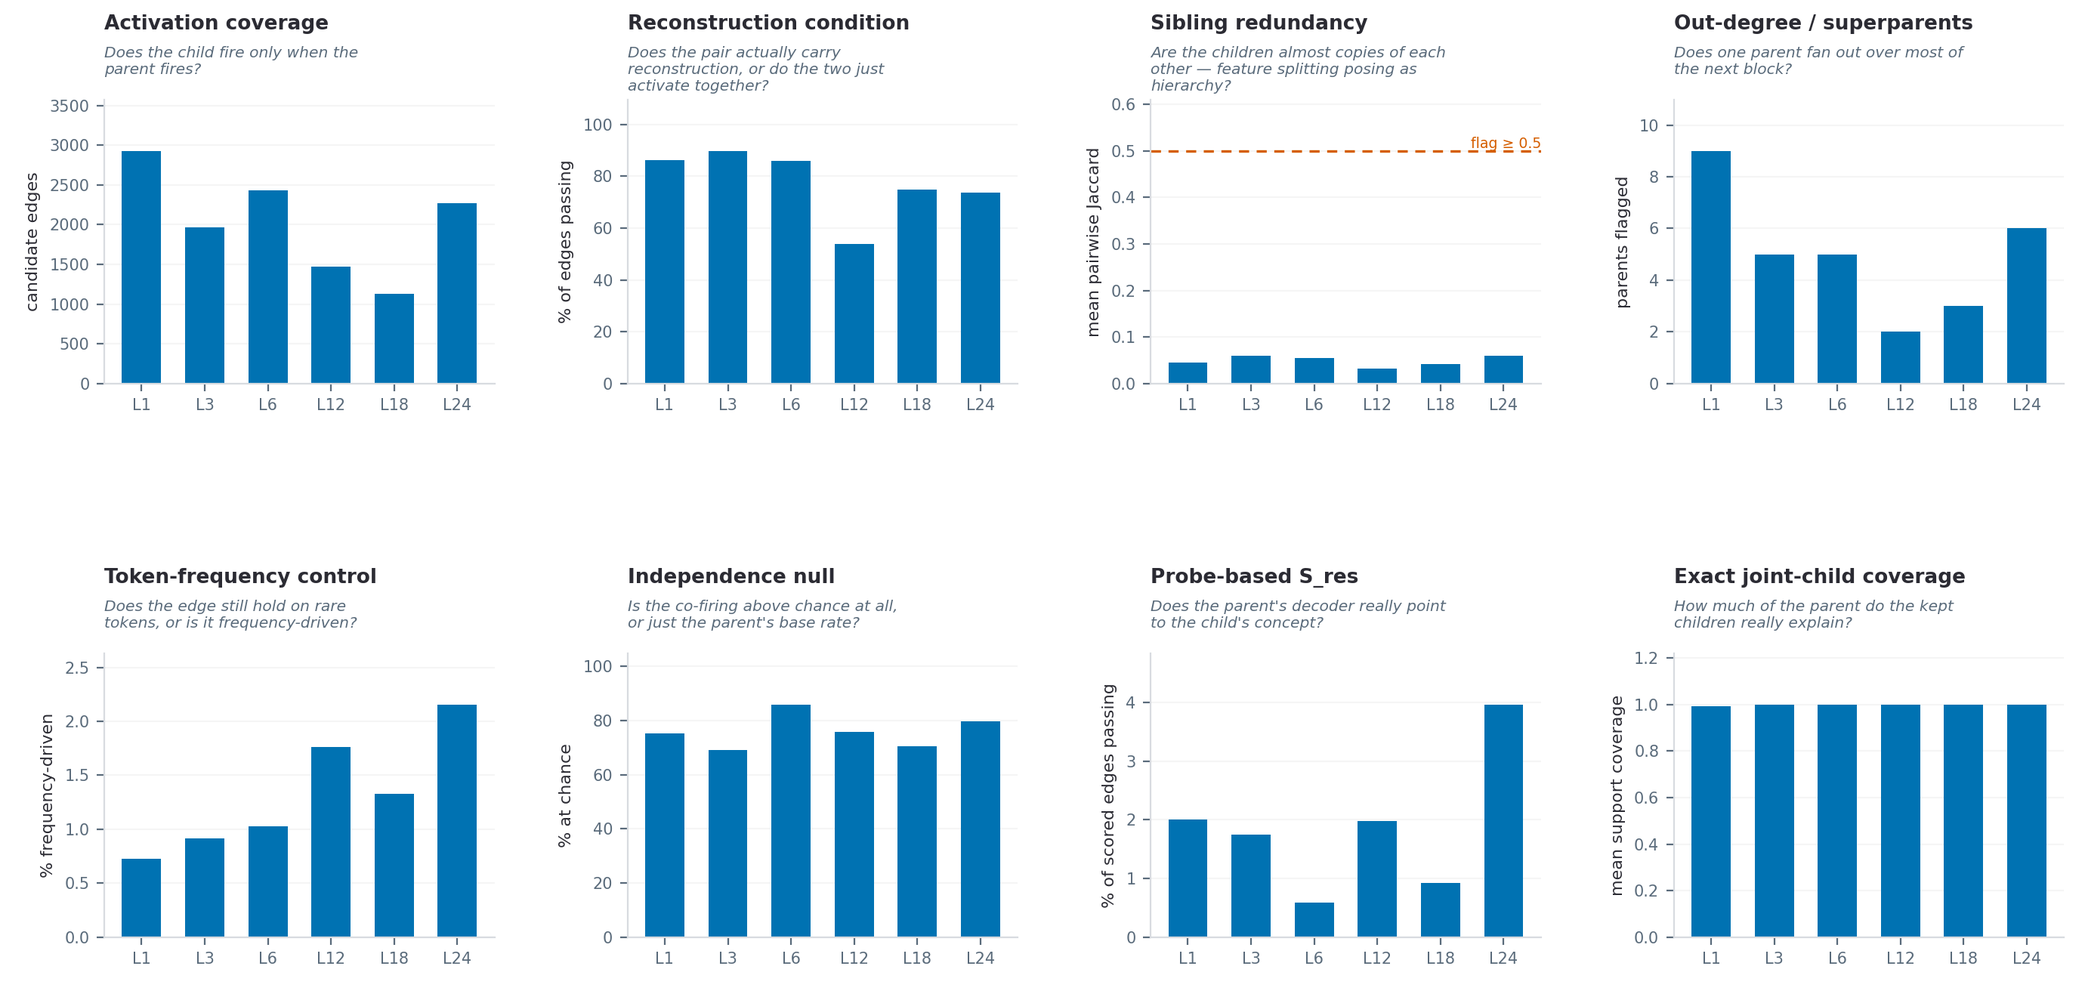
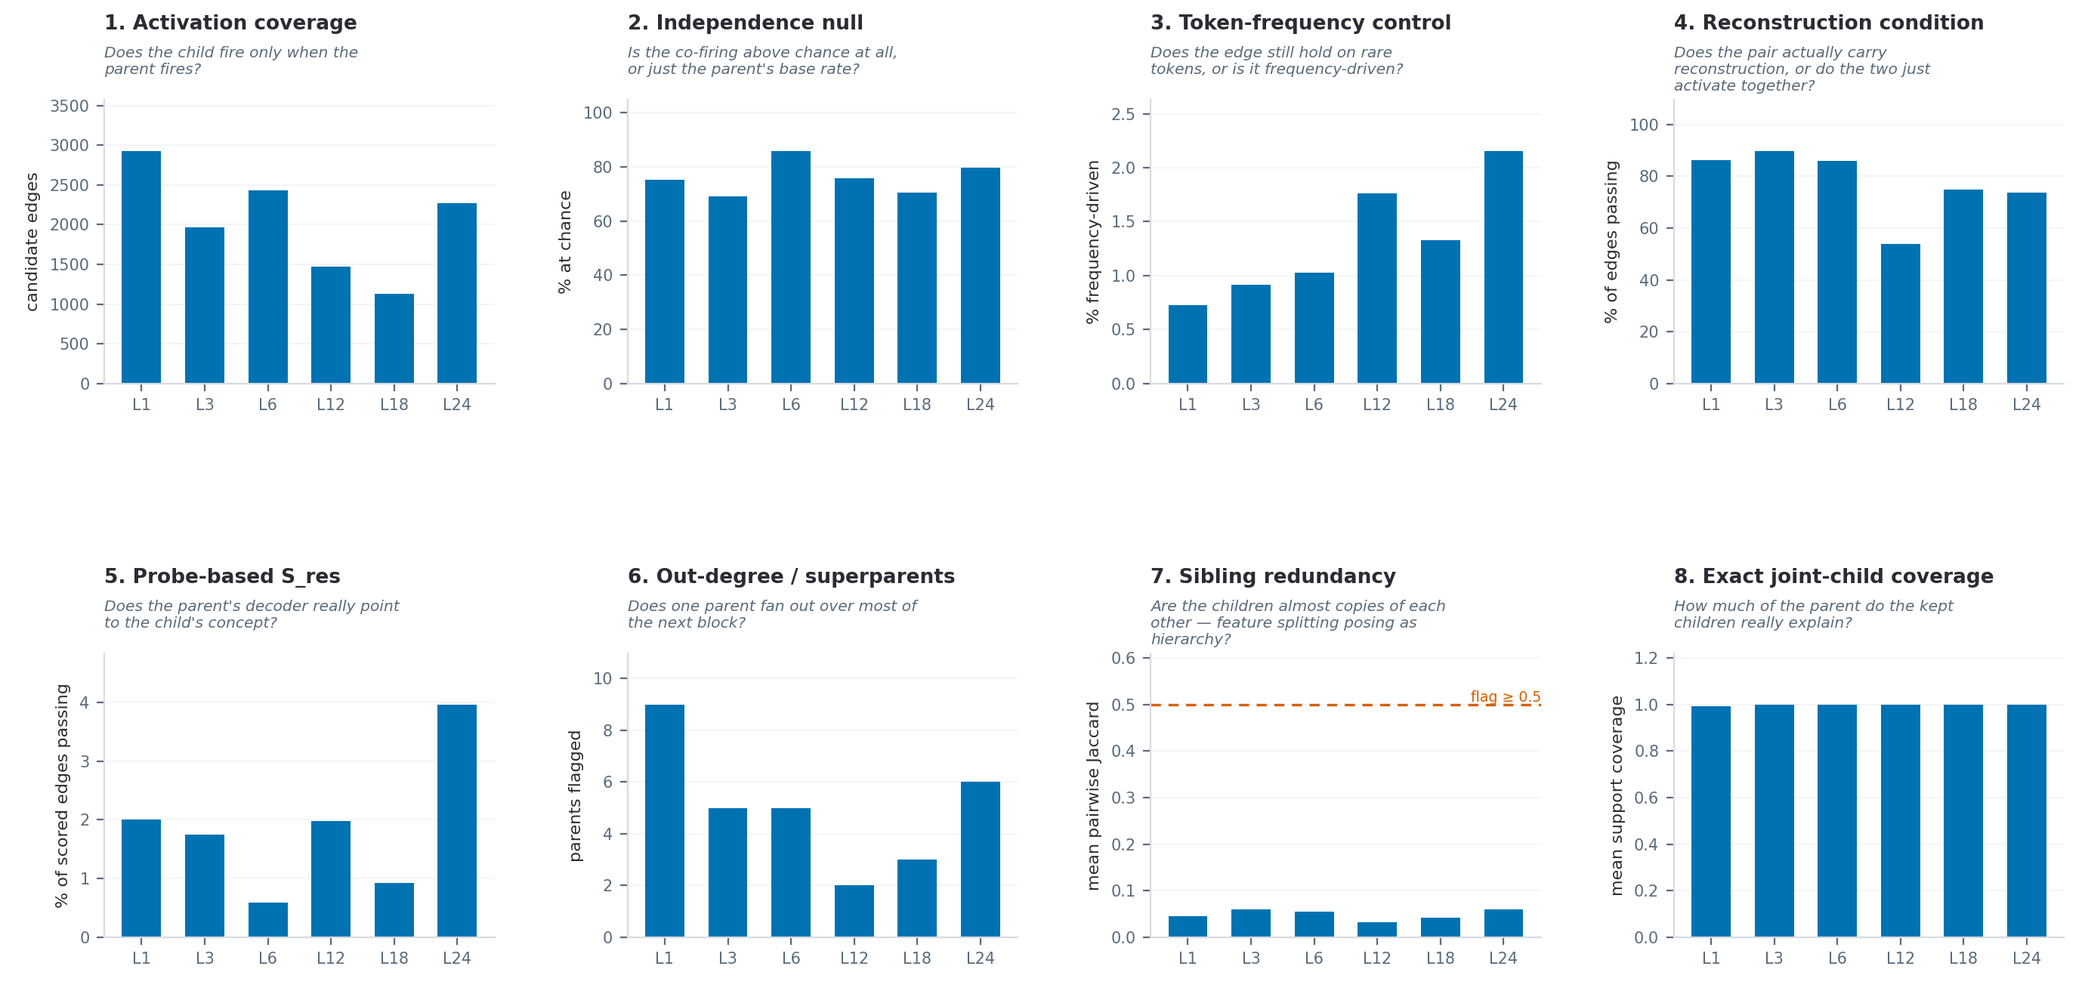
refactor(reporting): reorder and reindex metric battery for consistency
Synchronize the metric battery numbering and descriptions across LaTeX
tables, figure generation scripts, and visual assets.

Key changes:
- Reindex the metric battery from 10 to 8 primary questions to reflect
  the updated methodology.
- Update `tables.tex` with new numbering, descriptions, and a revised
  caption explaining the grouping of metrics (1-5 for single edges,
  6-8 for neighborhoods).
- Refactor `make_report_figures.py` to include metric indices in panel
  titles and stage labels, ensuring visual alignment with the paper's
  text.
- Update generated PNG assets (`battery_questions_gemma.png` and
  `funnel_coverage_to_sres.png`) to match the new numbering scheme.

diff --git a/reporting/make_report_tables.py b/reporting/make_report_tables.py
@@ -172,29 +172,33 @@ def t_battery():
          rf"$\geq {C.EDGE_TAU}$", r"\texttt{coverage}"),
         ("1b", "Forward coverage $F$", r"$P(\text{child} \mid \text{parent})$",
          "reported", r"\texttt{coverage}"),
-        ("1c", "Joint-child coverage", r"$R_\mathrm{supp}$, $R_\mathrm{mass}$, energy share",
-         "reported", r"\texttt{joint\_child}"),
-        ("2a", "Reconstruction ablation", "both features carry mass on the child's tokens",
-         rf"$\geq {C.RECON_REL_GAIN_MIN}$", r"\texttt{reconstruction}"),
-        ("2b", r"Probe $S_\mathrm{res}$", "both decoders near the child-concept probe",
-         rf"top-{C.SRES_RANK_TOP_K} rank", r"\texttt{sres}"),
-        ("3", "Sibling redundancy", "co-activation among one parent's children",
-         rf"$\geq {C.SIBLING_REDUNDANCY_FLAG}$", r"\texttt{sibling\_redundancy}"),
-        ("4", "Out-degree", "one parent covering most of the next block",
-         rf"$\geq {100 * C.SUPERPARENT_OUTDEG_FRAC:.0f}\%$", r"\texttt{outdegree}"),
-        ("5", "Token-frequency control", "does the edge survive on rare tokens",
-         rf"$\geq {C.FREQ_SURVIVAL_MIN}$", r"\texttt{token\_control}"),
-        ("6", "Independence null", "PMI against independent firing",
+        ("2", "Independence null", "PMI against independent firing",
          r"$> 0$", r"\texttt{independence\_null}"),
-        ("7", "In-block directed coverage", "containment within one block, and duplicates",
+        ("3", "Token-frequency control", "does the edge survive on rare tokens",
+         rf"$\geq {C.FREQ_SURVIVAL_MIN}$", r"\texttt{token\_control}"),
+        ("4", "Reconstruction ablation", "both features carry mass on the child's tokens",
+         rf"$\geq {C.RECON_REL_GAIN_MIN}$", r"\texttt{reconstruction}"),
+        ("5", r"Probe $S_\mathrm{res}$", "both decoders near the child-concept probe",
+         rf"top-{C.SRES_RANK_TOP_K} rank", r"\texttt{sres}"),
+        ("6", "Out-degree", "one parent covering most of the next block",
+         rf"$\geq {100 * C.SUPERPARENT_OUTDEG_FRAC:.0f}\%$", r"\texttt{outdegree}"),
+        ("7", "Sibling redundancy", "co-activation among one parent's children",
+         rf"$\geq {C.SIBLING_REDUNDANCY_FLAG}$", r"\texttt{sibling\_redundancy}"),
+        ("8", "Joint-child coverage", r"$R_\mathrm{supp}$, $R_\mathrm{mass}$, energy share",
+         "reported", r"\texttt{joint\_child}"),
+        ("---", "In-block directed coverage", "containment within one block, and duplicates",
          "asymmetry", r"\texttt{in\_block\_edges}"),
     ]
     return table(
-        "battery", r"\textbf{The metric battery.} Ten measurements of the same edge. Metric~1 "
-        "defines the candidate set and 2--7 grade it. Metric~2a is named honestly as a "
-        r"\emph{contribution filter} rather than as Tree SAE's $S_\mathrm{res}$: two strong but "
-        "unrelated co-firing features pass both of its legs, and its pass rate scales with block "
-        r"energy. The probe-based $S_\mathrm{res}$ is 2b, and its target is the self-label "
+        "battery", r"\textbf{The metric battery.} Eight questions about the same edge, plus an "
+        "unnumbered in-block measurement that grades same-level pairs rather than candidate "
+        "edges. Metric~1 defines the candidate set and 2--8 grade it: 2--5 weigh a single edge "
+        "with increasingly demanding evidence, from chance to frequency to reconstruction to "
+        "meaning, and 6--8 widen the view from one edge to the parent's whole neighbourhood. "
+        r"Metric~4 is named honestly as a \emph{contribution filter} rather than as Tree SAE's "
+        r"$S_\mathrm{res}$: two strong but unrelated co-firing features pass both of its legs, "
+        "and its pass rate scales with block energy. The probe-based $S_\\mathrm{res}$ is "
+        "metric~5, and its target is the self-label "
         r"$\mathbf{1}[f_c > 0]$, so a corrupted latent yields a probe that validates its own "
         "corruption; we report it as self-labeled and as a self-consistency check, not as ground "
         "truth.",
@@ -205,32 +209,45 @@ def t_battery():
 # ---------------------------------------------------------------------------
 # 3. The properties matrix. NOT derived -- see the module docstring.
 # ---------------------------------------------------------------------------
+# Column order matches the battery order of Section "Metrics"; the
+# Poly-parenting column is separate from Superparent on purpose. A superparent
+# is an out-degree pathology (one parent swallowing the block) and
+# poly-parenting an in-degree one (one child claimed by several parents); the
+# second is what the results section actually measures, and only `outdegree`
+# reads in-degree at all.
 MATRIX = [
-    ("1a Reverse coverage",        "P", "x", "x", "x", "x", "x", "x"),
-    ("1b Forward coverage",        "P", "x", "x", "P", "x", "x", "x"),
-    ("1c Joint-child",             "P", "x", "Y", "Y", "x", "x", "x"),
-    ("2a Reconstruction",          "P", "x", "x", "x", "x", "P", "x"),
-    (r"2b Probe $S_\mathrm{res}$", "Y", "P", "x", "P", "P", "Y", "x"),
-    ("3 Sibling redundancy",       "P", "x", "Y", "x", "Y", "x", "x"),
-    ("4 Out-degree",               "x", "x", "x", "Y", "x", "P", "x"),
-    ("5 Frequency control",        "P", "x", "x", "P", "x", "Y", "x"),
-    ("6 Independence null",        "P", "x", "x", "Y", "x", "Y", "x"),
-    ("7 In-block coverage",        "Y", "x", "Y", "x", "Y", "x", "x"),
+    ("1 Reverse coverage",        "P", "x", "x", "x", "x", "x", "x", "x"),
+    ("1 Forward coverage",        "P", "x", "x", "P", "x", "x", "x", "x"),
+    ("2 Independence null",       "P", "x", "x", "Y", "P", "x", "Y", "x"),
+    ("3 Frequency control",       "P", "x", "x", "P", "x", "x", "Y", "x"),
+    ("4 Reconstruction",          "P", "x", "x", "x", "x", "x", "P", "x"),
+    (r"5 Probe $S_\mathrm{res}$", "Y", "P", "x", "P", "P", "P", "Y", "x"),
+    ("6 Out-degree",              "x", "x", "x", "Y", "Y", "x", "P", "x"),
+    ("7 Sibling redundancy",      "P", "x", "Y", "x", "x", "Y", "x", "x"),
+    ("8 Joint-child",             "P", "x", "Y", "Y", "x", "x", "x", "x"),
+    ("--- In-block coverage",     "Y", "x", "Y", "x", "x", "Y", "x", "x"),
 ]
 GLYPH = {"Y": r"$\bullet$", "P": r"$\circ$", "x": r"--"}
 
 
 def t_matrix():
     cols = ["Parent$\\rightarrow$child", "Absorption", "Splitting", "Superparent",
-            "Siblings", "Frequency", "Topic"]
+            "Poly-parenting", "Siblings", "Frequency", "Topic"]
     rows = [[r[0]] + [GLYPH[c] for c in r[1:]] for r in MATRIX]
     return table(
         "matrix", r"\textbf{What each metric can separate.} A candidate pair can look like an "
-        "edge for seven reasons and only one is hierarchy, so the question per metric is which "
+        "edge for eight reasons and only one is hierarchy, so the question per metric is which "
         r"column it adds, not whether it is correct. $\bullet$ detects, $\circ$ partial "
         "(necessary but not sufficient, or only in some regimes), -- blind. \\textbf{These cells "
         "are read off each metric's construction and are not a measured accuracy}; every one is "
-        r"exercised by a row of Table~\ref{tab:tier1}. Two columns are open and stay open. "
+        r"exercised by a row of Table~\ref{tab:tier1}. \emph{Superparent} and "
+        r"\emph{poly-parenting} are separate columns because they are separate pathologies: the "
+        "first is an out-degree failure, one parent claiming most of the child block, and the "
+        "second an in-degree failure, one child claimed by several parents. Only the out-degree "
+        "metric reads in-degree at all; the two filters marked partial there earn it by removing "
+        "the edges that produce the tangle, the base-rate hubs and the geometrically unrelated "
+        "pairs, rather than by measuring a child's parent count. "
+        r"Two columns are open and stay open. "
         r"\emph{Absorption} is unreachable because coverage gates the candidate set and an "
         "absorbed child has low $R$ by construction. \\emph{Topic} --- two specific, unrelated "
         "features sharing a latent subject --- passes coverage, reconstruction, the frequency "

diff --git a/outputs/paper_figuers/tables.tex b/outputs/paper_figuers/tables.tex
@@ -58,7 +58,7 @@
 \begin{table}[tbp]
   \centering
   \small
-  \caption{\textbf{The metric battery.} Ten measurements of the same edge. Metric~1 defines the candidate set and 2--7 grade it. Metric~2a is named honestly as a \emph{contribution filter} rather than as Tree SAE's $S_\mathrm{res}$: two strong but unrelated co-firing features pass both of its legs, and its pass rate scales with block energy. The probe-based $S_\mathrm{res}$ is 2b, and its target is the self-label $\mathbf{1}[f_c > 0]$, so a corrupted latent yields a probe that validates its own corruption; we report it as self-labeled and as a self-consistency check, not as ground truth.}
+  \caption{\textbf{The metric battery.} Eight questions about the same edge, plus an unnumbered in-block measurement that grades same-level pairs rather than candidate edges. Metric~1 defines the candidate set and 2--8 grade it: 2--5 weigh a single edge with increasingly demanding evidence, from chance to frequency to reconstruction to meaning, and 6--8 widen the view from one edge to the parent's whole neighbourhood. Metric~4 is named honestly as a \emph{contribution filter} rather than as Tree SAE's $S_\mathrm{res}$: two strong but unrelated co-firing features pass both of its legs, and its pass rate scales with block energy. The probe-based $S_\mathrm{res}$ is metric~5, and its target is the self-label $\mathbf{1}[f_c > 0]$, so a corrupted latent yields a probe that validates its own corruption; we report it as self-labeled and as a self-consistency check, not as ground truth.}
   \label{tab:battery}
   \begin{tabular}{llllr}
     \toprule
@@ -66,14 +66,14 @@
     \midrule
     1a & Reverse coverage $R$ & $P(\text{parent} \mid \text{child})$ & $\geq 0.5$ & \texttt{coverage} \\
     1b & Forward coverage $F$ & $P(\text{child} \mid \text{parent})$ & reported & \texttt{coverage} \\
-    1c & Joint-child coverage & $R_\mathrm{supp}$, $R_\mathrm{mass}$, energy share & reported & \texttt{joint\_child} \\
-    2a & Reconstruction ablation & both features carry mass on the child's tokens & $\geq 0.01$ & \texttt{reconstruction} \\
-    2b & Probe $S_\mathrm{res}$ & both decoders near the child-concept probe & top-5 rank & \texttt{sres} \\
-    3 & Sibling redundancy & co-activation among one parent's children & $\geq 0.5$ & \texttt{sibling\_redundancy} \\
-    4 & Out-degree & one parent covering most of the next block & $\geq 30\%$ & \texttt{outdegree} \\
-    5 & Token-frequency control & does the edge survive on rare tokens & $\geq 0.5$ & \texttt{token\_control} \\
-    6 & Independence null & PMI against independent firing & $> 0$ & \texttt{independence\_null} \\
-    7 & In-block directed coverage & containment within one block, and duplicates & asymmetry & \texttt{in\_block\_edges} \\
+    2 & Independence null & PMI against independent firing & $> 0$ & \texttt{independence\_null} \\
+    3 & Token-frequency control & does the edge survive on rare tokens & $\geq 0.5$ & \texttt{token\_control} \\
+    4 & Reconstruction ablation & both features carry mass on the child's tokens & $\geq 0.01$ & \texttt{reconstruction} \\
+    5 & Probe $S_\mathrm{res}$ & both decoders near the child-concept probe & top-5 rank & \texttt{sres} \\
+    6 & Out-degree & one parent covering most of the next block & $\geq 30\%$ & \texttt{outdegree} \\
+    7 & Sibling redundancy & co-activation among one parent's children & $\geq 0.5$ & \texttt{sibling\_redundancy} \\
+    8 & Joint-child coverage & $R_\mathrm{supp}$, $R_\mathrm{mass}$, energy share & reported & \texttt{joint\_child} \\
+    --- & In-block directed coverage & containment within one block, and duplicates & asymmetry & \texttt{in\_block\_edges} \\
     \bottomrule
   \end{tabular}
 \end{table}
@@ -82,22 +82,22 @@
 \begin{table}[tbp]
   \centering
   \small
-  \caption{\textbf{What each metric can separate.} A candidate pair can look like an edge for seven reasons and only one is hierarchy, so the question per metric is which column it adds, not whether it is correct. $\bullet$ detects, $\circ$ partial (necessary but not sufficient, or only in some regimes), -- blind. \textbf{These cells are read off each metric's construction and are not a measured accuracy}; every one is exercised by a row of Table~\ref{tab:tier1}. Two columns are open and stay open. \emph{Absorption} is unreachable because coverage gates the candidate set and an absorbed child has low $R$ by construction. \emph{Topic} --- two specific, unrelated features sharing a latent subject --- passes coverage, reconstruction, the frequency control and PMI alike; closing it needs a model-based topic null rather than another threshold.}
+  \caption{\textbf{What each metric can separate.} A candidate pair can look like an edge for eight reasons and only one is hierarchy, so the question per metric is which column it adds, not whether it is correct. $\bullet$ detects, $\circ$ partial (necessary but not sufficient, or only in some regimes), -- blind. \textbf{These cells are read off each metric's construction and are not a measured accuracy}; every one is exercised by a row of Table~\ref{tab:tier1}. \emph{Superparent} and \emph{poly-parenting} are separate columns because they are separate pathologies: the first is an out-degree failure, one parent claiming most of the child block, and the second an in-degree failure, one child claimed by several parents. Only the out-degree metric reads in-degree at all; the two filters marked partial there earn it by removing the edges that produce the tangle, the base-rate hubs and the geometrically unrelated pairs, rather than by measuring a child's parent count. Two columns are open and stay open. \emph{Absorption} is unreachable because coverage gates the candidate set and an absorbed child has low $R$ by construction. \emph{Topic} --- two specific, unrelated features sharing a latent subject --- passes coverage, reconstruction, the frequency control and PMI alike; closing it needs a model-based topic null rather than another threshold.}
   \label{tab:matrix}
-  \begin{tabular}{lccccccc}
+  \begin{tabular}{lcccccccc}
     \toprule
-     & Parent$\rightarrow$child & Absorption & Splitting & Superparent & Siblings & Frequency & Topic \\
+     & Parent$\rightarrow$child & Absorption & Splitting & Superparent & Poly-parenting & Siblings & Frequency & Topic \\
     \midrule
-    1a Reverse coverage & $\circ$ & -- & -- & -- & -- & -- & -- \\
-    1b Forward coverage & $\circ$ & -- & -- & $\circ$ & -- & -- & -- \\
-    1c Joint-child & $\circ$ & -- & $\bullet$ & $\bullet$ & -- & -- & -- \\
-    2a Reconstruction & $\circ$ & -- & -- & -- & -- & $\circ$ & -- \\
-    2b Probe $S_\mathrm{res}$ & $\bullet$ & $\circ$ & -- & $\circ$ & $\circ$ & $\bullet$ & -- \\
-    3 Sibling redundancy & $\circ$ & -- & $\bullet$ & -- & $\bullet$ & -- & -- \\
-    4 Out-degree & -- & -- & -- & $\bullet$ & -- & $\circ$ & -- \\
-    5 Frequency control & $\circ$ & -- & -- & $\circ$ & -- & $\bullet$ & -- \\
-    6 Independence null & $\circ$ & -- & -- & $\bullet$ & -- & $\bullet$ & -- \\
-    7 In-block coverage & $\bullet$ & -- & $\bullet$ & -- & $\bullet$ & -- & -- \\
+    1 Reverse coverage & $\circ$ & -- & -- & -- & -- & -- & -- & -- \\
+    1 Forward coverage & $\circ$ & -- & -- & $\circ$ & -- & -- & -- & -- \\
+    2 Independence null & $\circ$ & -- & -- & $\bullet$ & $\circ$ & -- & $\bullet$ & -- \\
+    3 Frequency control & $\circ$ & -- & -- & $\circ$ & -- & -- & $\bullet$ & -- \\
+    4 Reconstruction & $\circ$ & -- & -- & -- & -- & -- & $\circ$ & -- \\
+    5 Probe $S_\mathrm{res}$ & $\bullet$ & $\circ$ & -- & $\circ$ & $\circ$ & $\circ$ & $\bullet$ & -- \\
+    6 Out-degree & -- & -- & -- & $\bullet$ & $\bullet$ & -- & $\circ$ & -- \\
+    7 Sibling redundancy & $\circ$ & -- & $\bullet$ & -- & -- & $\bullet$ & -- & -- \\
+    8 Joint-child & $\circ$ & -- & $\bullet$ & $\bullet$ & -- & -- & -- & -- \\
+    --- In-block coverage & $\bullet$ & -- & $\bullet$ & -- & -- & $\bullet$ & -- & -- \\
     \bottomrule
   \end{tabular}
 \end{table}

diff --git a/reporting/make_report_figures.py b/reporting/make_report_figures.py
@@ -184,8 +184,14 @@ def _finish(fig, ax_or_axes, name: str, tight: bool = True) -> str:
 #    evidence and overstated how special that layer was.
 # ---------------------------------------------------------------------------
 def funnel_coverage_to_sres(layers, second, pcfg=None, pair="0->1", where=""):
-    stages = [f"candidate edges\nreverse coverage ≥ {C.EDGE_TAU}",
-              "above chance\nPMI > 0", "genuine refinement\npasses probe S_res"]
+    # Stage labels carry the battery number, because the three stages are
+    # metrics 1, 2 and 5 in order: the funnel walks the battery forward and
+    # skips nothing that is nested. The last stage is named for what it
+    # measures, not for what it would mean if the probe were ground truth --
+    # its target is the child's own self-label, so "genuine refinement" would
+    # claim exactly what the methodology section disavows.
+    stages = [f"1. candidate edges\nreverse coverage ≥ {C.EDGE_TAU}",
+              "2. above chance\nPMI > 0", "5. probe-confirmed\npasses probe S_res"]
     x = np.arange(len(stages))
     # one panel per SOURCE: the funnel collapses the same way on both, which
     # is itself the cross-source claim, so the PCFG runs stand beside gemma
@@ -1178,30 +1184,37 @@ def battery_questions_gemma(layers, second):
     P = [_pair(r, "0->1") for _, r in layers]
     sres_pct = [100 * second[L]["0->1"]["sres"]["frac_pass"]
                 if second.get(L) and "0->1" in second[L] else np.nan for L in Ls]
+    # Panels follow the battery order of the Metrics section so the figure and
+    # the section can be read against each other panel by number. Note the 2x4
+    # grid does NOT align with the battery's own split: metrics 2-5 grade a
+    # single edge and 6-8 widen to the parent's neighbourhood, so the group
+    # boundary falls inside the bottom row, whose first panel (the probe) is
+    # still a single-edge test. The quality/structure reading of this figure is
+    # therefore carried by the caption, not by the layout.
     panels = [
-        ("Activation coverage",
+        ("1. Activation coverage",
          "Does the child fire only when the parent fires?",
          [p["n_candidate_edges"] for p in P], "candidate edges", None),
-        ("Reconstruction condition",
+        ("2. Independence null",
+         "Is the co-firing above chance at all, or just the parent's base rate?",
+         [100 * p["independence_null"]["frac_chance_level"] for p in P], "% at chance", None),
+        ("3. Token-frequency control",
+         "Does the edge still hold on rare tokens, or is it frequency-driven?",
+         [100 * p["freq_control"]["frac_freq_driven"] for p in P], "% frequency-driven", None),
+        ("4. Reconstruction condition",
          "Does the pair actually carry reconstruction, or do the two just activate together?",
          [100 * p["reconstruction"]["frac_pass"] for p in P], "% of edges passing", None),
-        ("Sibling redundancy",
+        ("5. Probe-based S_res",
+         "Does the parent's decoder really point to the child's concept?",
+         sres_pct, "% of scored edges passing", None),
+        ("6. Out-degree / superparents",
+         "Does one parent fan out over most of the next block?",
+         [p["n_superparents"] for p in P], "parents flagged", None),
+        ("7. Sibling redundancy",
          "Are the children almost copies of each other — feature splitting posing as hierarchy?",
          [p["sibling_redundancy"]["mean_redundancy"] for p in P], "mean pairwise Jaccard",
          C.SIBLING_REDUNDANCY_FLAG),
-        ("Out-degree / superparents",
-         "Does one parent fan out over most of the next block?",
-         [p["n_superparents"] for p in P], "parents flagged", None),
-        ("Token-frequency control",
-         "Does the edge still hold on rare tokens, or is it frequency-driven?",
-         [100 * p["freq_control"]["frac_freq_driven"] for p in P], "% frequency-driven", None),
-        ("Independence null",
-         "Is the co-firing above chance at all, or just the parent's base rate?",
-         [100 * p["independence_null"]["frac_chance_level"] for p in P], "% at chance", None),
-        ("Probe-based S_res",
-         "Does the parent's decoder really point to the child's concept?",
-         sres_pct, "% of scored edges passing", None),
-        ("Exact joint-child coverage",
+        ("8. Exact joint-child coverage",
          "How much of the parent do the kept children really explain?",
          [p["joint_child"]["r_supp_mean"] for p in P], "mean support coverage", None),
     ]
